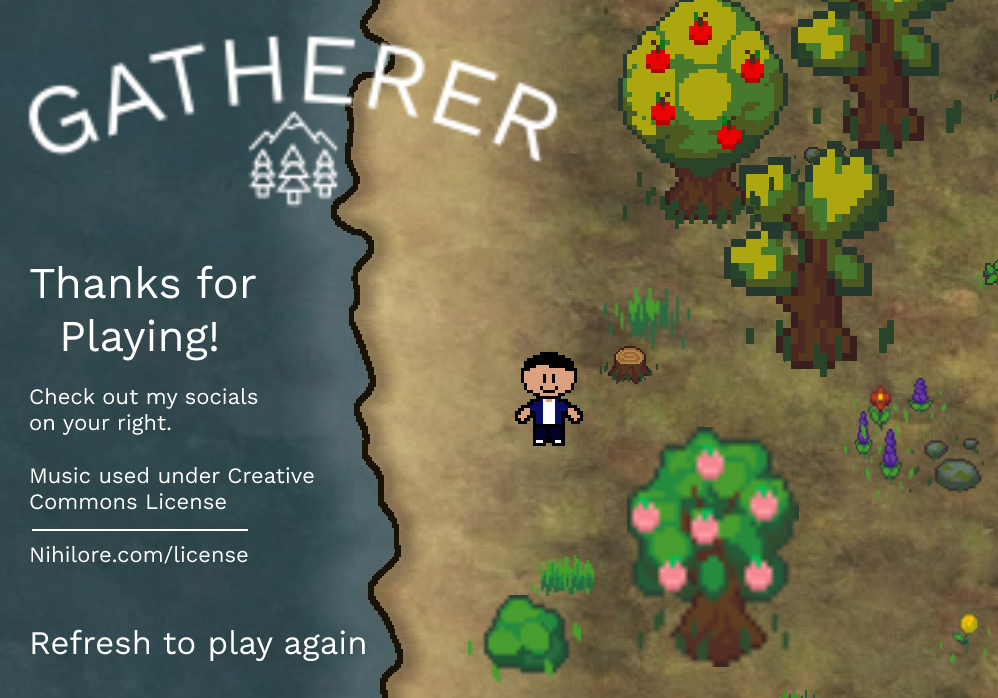
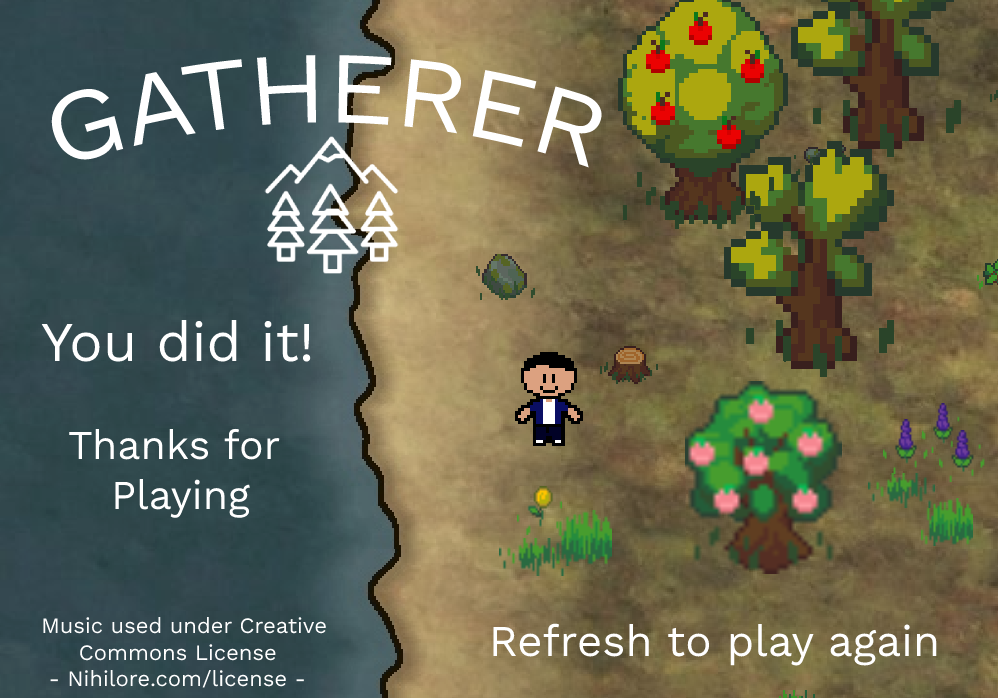
Remade start and end screen

diff --git a/index.html b/index.html
@@ -13,8 +13,8 @@
     <footer class="social-links">
         <h1>Socials:</h1>
         <ul>
-            <li><a href="https://github.com/davidjhinku/gatherer"><img class="social-logo" src="./src/assets/GitHub-Mark-120px-plus.png" alt="Github"></a></li>
-            <li><a href="https://www.linkedin.com/in/davidjhinku/"><img class="social-logo" src="./src/assets/linkedin_black.png" alt="LinkedIn"></a></li>
+            <li><a href="https://github.com/davidjhinku/gatherer" target="_blank"><img class="social-logo" src="./src/assets/GitHub-Mark-120px-plus.png" alt="Github"></a></li>
+            <li><a href="https://www.linkedin.com/in/davidjhinku/" target="_blank"><img class="social-logo" src="./src/assets/linkedin_black.png" alt="LinkedIn"></a></li>
         </ul>
     </footer>
     <script src="./dist/main.js"></script>

diff --git a/src/styles/body.scss b/src/styles/body.scss
@@ -4,6 +4,12 @@ body {
     background-color: $light-blue;
 }
 
+.social-links > h1 {
+    font-family: sans-serif;
+    font-weight: 600;
+    font-size: 28px;
+}
+
 footer.social-links {
     border: 1px solid black;
     margin-top: 50px;
@@ -12,10 +18,10 @@ footer.social-links {
     flex-direction: column;
     justify-content: center;
     align-items: center;
-    color: #1F7A8C;
 }
 
 .social-logo {
     width: 50px;
     height: 50px;
+    margin: 20px;
 }
